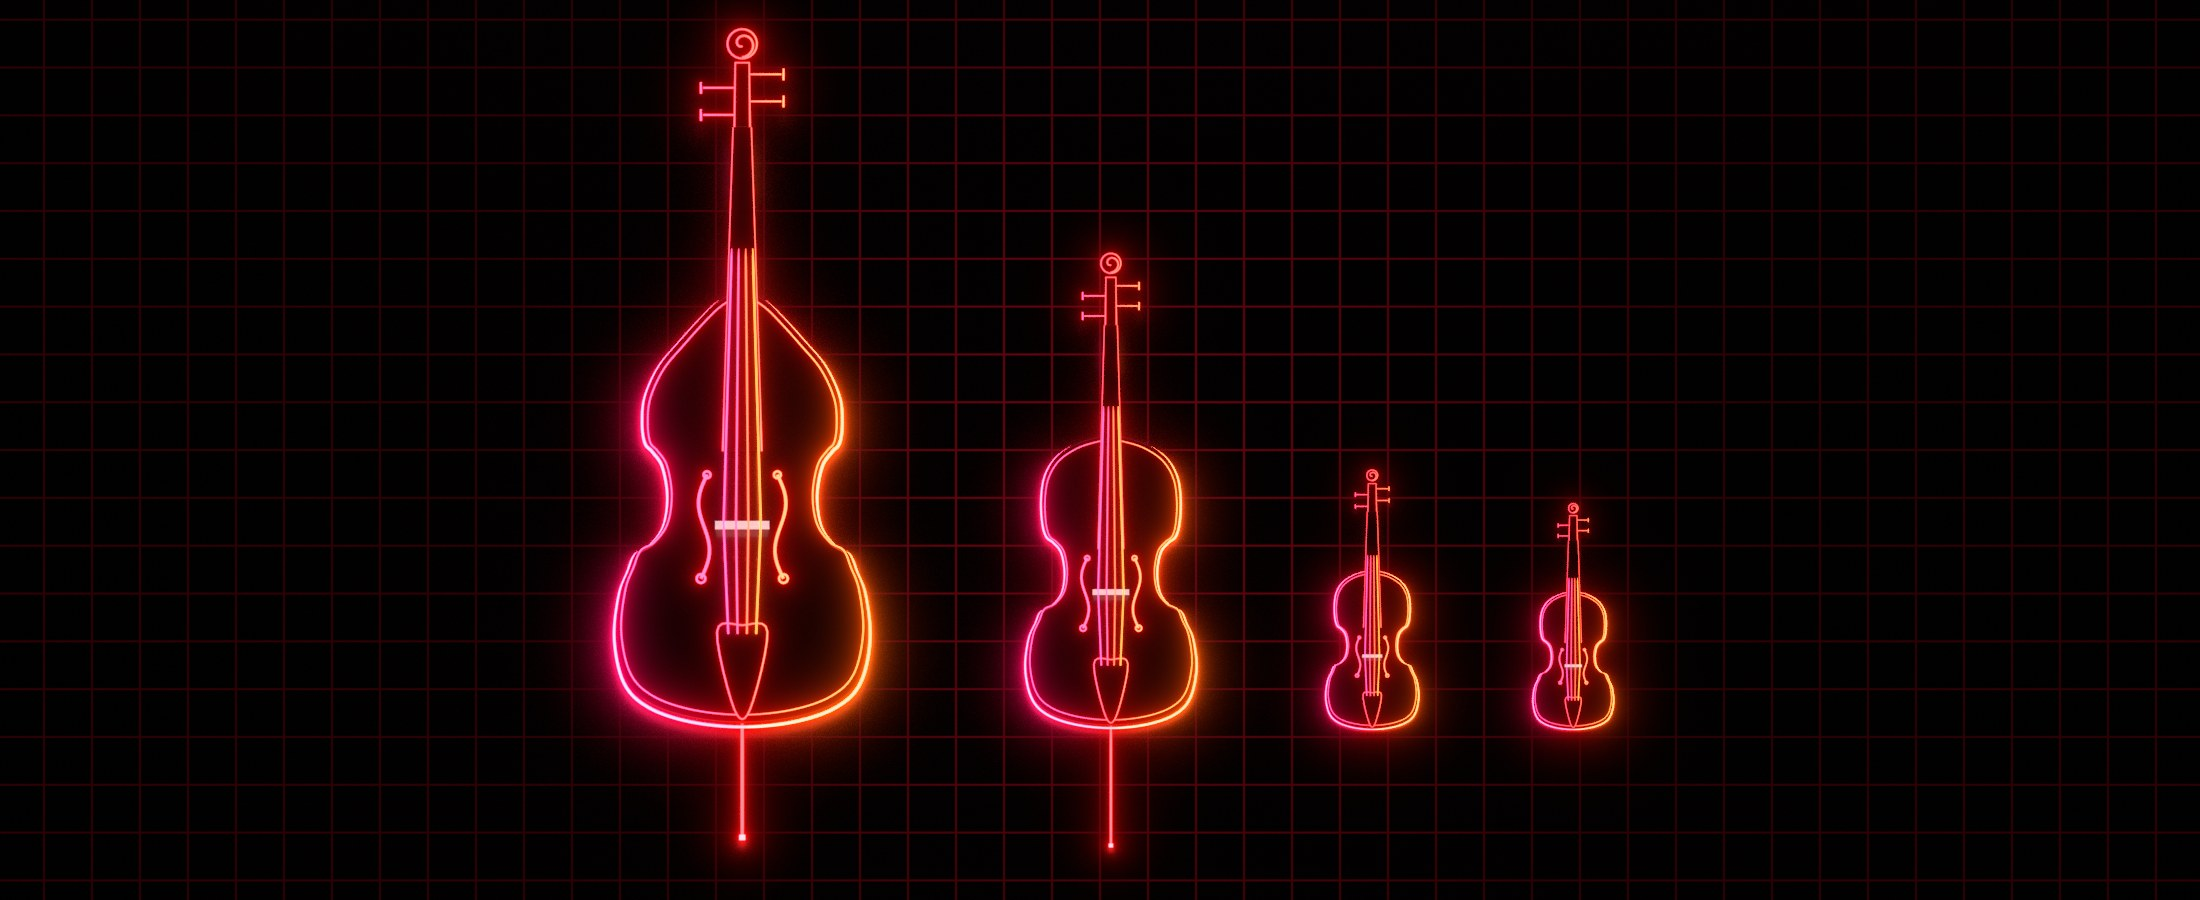
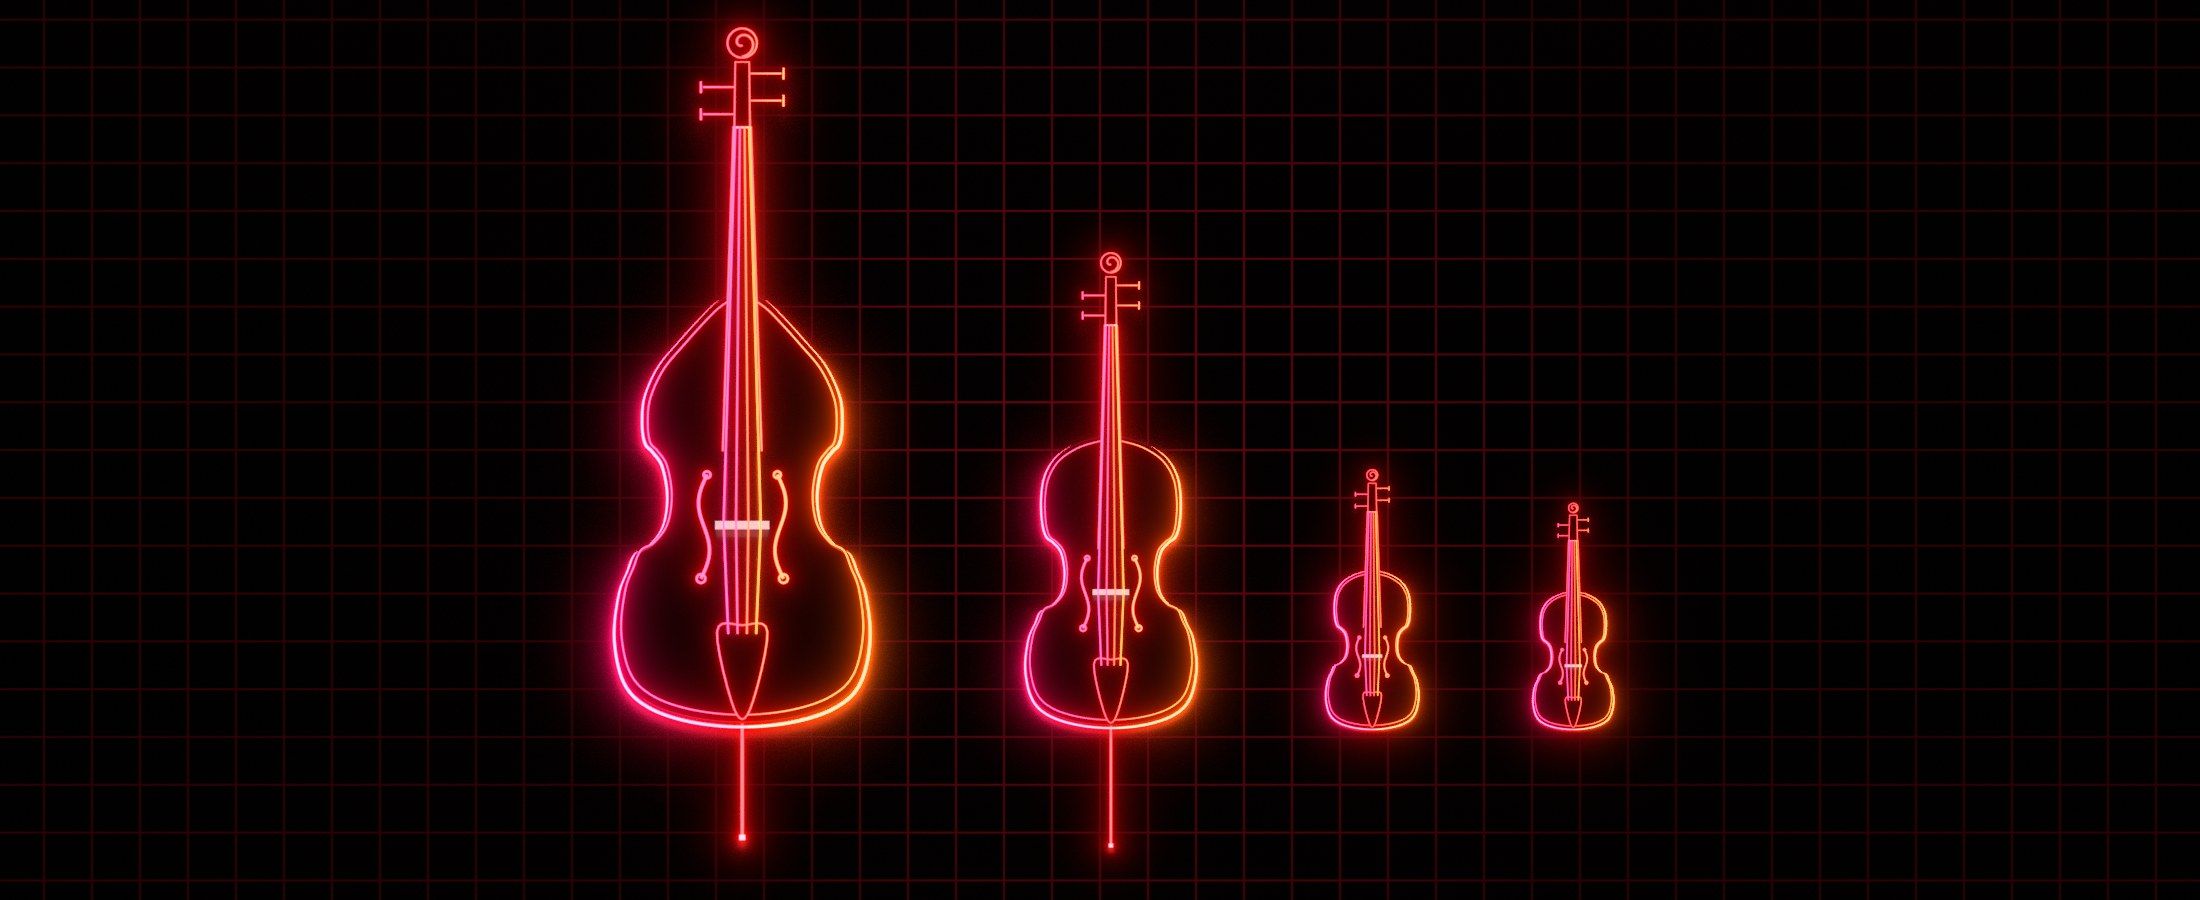
Release 0.5.1: the single instruments at one common scale, bigger, like PR7-I's guitar
The owner: "much closer to the scale that we used for the guitar in the
PR7-I ... We don't need to see the entire body or the entire headstock",
then, after a mock-up, "all four instruments to one common scale", and of
three common scales (bass fills, halfway, violin fills) the halfway one.

- strings3d.py: the single views at one scale, 0.654 m across the
  picture (the geometric middle of the violin's strings and the bass's
  filling it). Violin and viola whole, about as big as 0.5.0's violin;
  cello and bass much bigger, framed on their nut end (the nut 92%
  across), the bridge end off the left edge. ORCH_FRAME / ORCH_FIT /
  ORCH_SPAN choose other framings.
- OrchestraView: a stop past the left edge (cello / bass high notes)
  lights at the edge on its string (orchestra::alongString, tested).
- The strings no longer sink into the fingerboard near the nut (the nut
  now at the board's height); all six pictures rendered again.

Checked: 225 test cases (also under a 1 MB stack and through ctest),
pluginval strictness 10, screenshots of all four instruments and the
section on VSCO's real files.

Claude-Session: https://claude.ai/code/session_01DkHHwF9k9oj2mhycMYNF8F

diff --git a/resources/orchestra/strings3d.py b/resources/orchestra/strings3d.py
@@ -319,13 +319,28 @@ if VIEW.startswith("single:"):
     PX_PER_M = (WIDTH / 2) * 0.93 / length
     # lying across: its strings along X, the scroll right, the low string on top (+Y)
     start = -length / 2 + p["pin"]
-    # ORCH_FRAME=strings (the owner, after 0.5.0: "much closer to the scale that we used for the guitar in the PR7-I"):
-    # the strings from the bridge to the nut fill the picture (ORCH_SPAN of them across it), as PR7-I's guitar's
-    # neck does; the body and the scroll run off the edges. The view's middle is the strings' middle.
-    if os.environ.get("ORCH_FRAME") == "strings":
-        bridge, nut = 0.455 * p["L"], p["L"] + p["neck"]
-        PX_PER_M = (WIDTH / 2) / ((nut - bridge) * float(os.environ.get("ORCH_SPAN", "1.22")))
-        start = -(bridge + nut) / 2
+    # 0.5.1, ONE COMMON SCALE like PR7-I's guitar's (the owner: "much closer to the scale that we used for the guitar
+    # in the PR7-I ... We don't need to see the entire body", then "all four instruments to one common scale"): the
+    # largest scale at which every instrument's strings, bridge to nut, stay in the picture: the double bass's fill it
+    # (ORCH_SPAN, 1.05, of them across), and the others are drawn at that same scale, each centred on its strings
+    # (the cello's fill about three quarters, the violin's and viola's about a third). The body and scroll of the
+    # bigger ones run off the edges. ORCH_FRAME=strings: each fills the picture instead (the first mock-up);
+    # ORCH_FRAME=whole: 0.5.0's, each whole instrument fitted.
+    # The owner chose from three (0.5.1): the scale halfway (geometric middle) between the violin's strings filling the
+    # picture (x1.22) and the bass's (x1.05): 0.654 m across, the violin whole and about as big as 0.5.0's, the cello
+    # and bass big. A bigger instrument's strings run past the picture: it's framed on its nut end (the nut at 92%
+    # across, where low-position notes are played), the bridge off the left edge. ORCH_FIT / ORCH_SPAN: another scale
+    # (the instrument whose strings set it, and how many of them across).
+    frame = os.environ.get("ORCH_FRAME", "common")
+    if frame in ("common", "strings"):
+        def span(q): return q["L"] + q["neck"] - 0.455 * q["L"]   # bridge to nut
+        halfway = math.sqrt (span (FAMILY["violin"]) * 1.22 * span (FAMILY["bass"]) * 1.05)
+        fitted = FAMILY[os.environ.get("ORCH_FIT", "violin")] if frame == "common" else p
+        across = span (fitted) * float(os.environ.get("ORCH_SPAN", str (halfway / span (FAMILY["violin"])) if frame == "common" else "1.22"))   # metres
+        PX_PER_M = (WIDTH / 2) / across
+        start = -(0.455 * p["L"] + p["L"] + p["neck"]) / 2
+        if span (p) > across * 0.95:
+            start = 0.42 * across - (p["L"] + p["neck"])
     root, strings, _ = build(kind, (start, 0, 0), -math.pi / 2, kind in LIT)
     pieces = [(kind, root, strings)]
 else:

diff --git a/source/ui/OrchestraView.cpp b/source/ui/OrchestraView.cpp
@@ -50,6 +50,16 @@ namespace orchestra
         return {};
     }
 
+    float alongString (int semitones, float nutX, float bridgeX, float edge)
+    {
+        // A stop's place, nut (0) to bridge (1): 1 - 2^(-semitones / 12). 0.5.1: at the common scale the cello's and
+        // bass's bridge end is off the left edge; a note stopped past `edge` lights at it, on its string.
+        auto along = 1.0f - std::pow (2.0f, -(float) semitones / 12.0f);
+        if (nutX > edge && bridgeX < edge && std::abs (bridgeX - nutX) > 1.0f)
+            along = juce::jmin (along, (nutX - edge) / (nutX - bridgeX));
+        return along;
+    }
+
     std::vector<Stop> stopsFor (Kind k, std::vector<int> notes)
     {
         std::vector<Stop> stops;
@@ -335,8 +345,7 @@ void OrchestraView::paintStops (juce::Graphics& g, const Strings& strings, const
             continue;
         const auto s = (size_t) stop.string;
         const auto nut = strings.nut[s].transformedBy (toView), bridge = strings.bridge[s].transformedBy (toView);
-        const auto along = 1.0f - std::pow (2.0f, -(float) stop.semitones / 12.0f);
-        const auto at = nut + (bridge - nut) * along;
+        const auto at = nut + (bridge - nut) * orchestra::alongString (stop.semitones, nut.x, bridge.x, 14.0f);
         const auto colour = stringColours[s];
         const auto scale = std::sqrt (std::abs (toView.getDeterminant()));
         const juce::Line<float> sounding (at, bridge);

diff --git a/tests/UiTests.cpp b/tests/UiTests.cpp
@@ -665,3 +665,15 @@ TEST_CASE ("THE ORCHESTRA VIEW 0.5.0: every picture's colours sit inside 322-38 
         CHECK (outside == 0);
     }
 }
+
+TEST_CASE ("THE ORCHESTRA VIEW 0.5.1: a stop past the picture's left edge (a cello's or bass's high note) lights at the edge", "[ui][orchestra]")
+{
+    // An octave up is halfway along; the open string at the nut.
+    CHECK (orchestra::alongString (0, 1000.0f, 200.0f, 14.0f) == 0.0f);
+    CHECK (std::abs (orchestra::alongString (12, 1000.0f, 200.0f, 14.0f) - 0.5f) < 1.0e-5f);
+    // The bridge end off the left edge (the nut at 940, the bridge at -500): two octaves up would be at 940 - 0.75 x
+    // 1440 = -140, off the picture: it's drawn at 14 instead. An octave up (220) is where it's stopped.
+    const auto at = [] (int semitones) { return 940.0f + (-500.0f - 940.0f) * orchestra::alongString (semitones, 940.0f, -500.0f, 14.0f); };
+    CHECK (std::abs (at (24) - 14.0f) < 1.0e-3f);
+    CHECK (std::abs (at (12) - 220.0f) < 1.0e-3f);
+}

diff --git a/source/ui/OrchestraView.h b/source/ui/OrchestraView.h
@@ -27,6 +27,9 @@ namespace orchestra
     // Each note's string and how many semitones over it (-1: no string), for these notes (any order).
     struct Stop { int note = 0, string = -1, semitones = 0; };
     std::vector<Stop> stopsFor (Kind, std::vector<int> notes);
+    // How far along its string (nut 0, bridge 1) a stop is drawn: where it's stopped, but never past `edge` (px) when
+    // the bridge end is off the picture's left edge (0.5.1).
+    float alongString (int semitones, float nutX, float bridgeX, float edge);
 }
 
 class OrchestraView final : public juce::Component, private juce::Timer

diff --git a/tests/ProcessorTests.cpp b/tests/ProcessorTests.cpp
@@ -83,7 +83,7 @@ TEST_CASE ("PR7-O is an instrument: no audio in, MIDI in, mono or stereo out", "
     CHECK (processor.getMainBusNumOutputChannels() == 2);
     CHECK (processor.getBus (false, 0)->getName() == "Main");
     CHECK (juce::String (JucePlugin_Name) == "Paragon PR7-O");
-    CHECK (juce::String (JucePlugin_VersionString) == "0.5.0");
+    CHECK (juce::String (JucePlugin_VersionString) == "0.5.1");
 
     juce::AudioProcessor::BusesLayout layout;
     layout.outputBuses.add (juce::AudioChannelSet::stereo());

diff --git a/CHANGELOG.md b/CHANGELOG.md
@@ -1,5 +1,24 @@
 # Changelog
 
+## 0.5.1
+
+**The single instruments bigger, at one common scale** (you: "much closer to the scale that we used for the guitar in
+the PR7-I ... We don't need to see the entire body or the entire headstock", then "all four instruments to one common
+scale", and of three common scales you chose the halfway one). A violin, viola, cello or double bass now lies across
+the picture panel at the same scale as the others, so their sizes compare as in life:
+- the **violin and viola** whole, about as big as 0.5.0's violin (0.5.0 fitted each instrument to the panel, so a
+  violin looked as big as a double bass);
+- the **cello and double bass** much bigger, framed on their nut end where low-position notes are played: the scroll
+  at the right, the upper body showing, the bridge end running off the left edge. A note stopped beyond the edge (their
+  highest, above about 15-18 semitones up a string) lights at the edge, on its string, so whatever sounds shows.
+The scale sits halfway between the violin's strings filling the panel and the bass's (0.654 m across the panel).
+
+**The strings run above the fingerboard to the nut.** Zoomed in, a slip in our model showed: the strings sank into
+the fingerboard near the nut and were hidden there (in every picture, the section's too). Fixed and rendered again.
+(The lit notes are drawn by the plugin, so they were always right.)
+
+Not checked: how it looks on your screen at your window size, and listening.
+
 ## 0.5.0
 
 **THE INSTRUMENT page in the family's "Tron" look, with PR7-I's rack** (you chose both mock-ups, and the rack system

diff --git a/CLAUDE.md b/CLAUDE.md
@@ -193,6 +193,15 @@ and AUTO SUSTAIN (`Sfz.cpp`), fitted on all 1914 distinct recordings (outside GM
   `oversamplingLatency()` measures each factor once (after `initProcessing`, which sets the whole-sample latency).
 - Blender 4.0 isn't on a fresh machine: `apt-get install -y blender`. Each picture ~2.5 min on 4 cores at 64 samples.
 
+## 0.5.1: the single instruments at one common scale (the owner: "much closer to the scale that we used for the guitar in the PR7-I ... We don't need to see the entire body or the entire headstock"; after a mock-up: "all four instruments to one common scale"; of three, "C: halfway")
+
+- `strings3d.py` single views: `ORCH_FRAME` common (default) / strings (each fills: the first mock-up) / whole
+  (0.5.0's). Common: 0.654 m across the picture, the geometric middle of the violin's strings x1.22 and the bass's
+  x1.05 (`ORCH_FIT`, `ORCH_SPAN` to choose another); an instrument whose strings are longer than 95% of it is framed
+  on its nut end (the nut at 92% across), others centred on their strings. The nut now as high as the fingerboard's
+  body end (`zFbNut = zFbEnd`: the strings had sunk into the board near the nut, hidden). All six pictures rendered again.
+- `OrchestraView::paintStops`: a stop past the picture's left edge (cello / bass upper notes) lights 14 px in from it.
+
 ## The plan (`PR7-O PLAN.md`), next
 
 Still from stage 2: release samples (`trigger=release`, `rt_decay`) and the files' own crossfades (`xfin_*` /

diff --git a/README.md b/README.md
@@ -40,8 +40,8 @@ PR7-O is built in stages, each one released (the plan: `PR7-O PLAN.md`):
   POLYPHONY, DYNAMICS, AUTO SUSTAIN) and **ROUTING** (SEND DELAY, SEND REVERB, INSERT BUS). Or drop files on the page.
   The left panel: the articulations (click to switch), a section's **SPLITS** (- / + move a split), what the instrument
   holds (regions, keys, velocity layers, round robins, memory, anything PR7-O doesn't play yet, missing files). The big
-  panel: **the instrument itself** in the family's neon look (violin, viola, cello, double bass: each note lit where
-  it's played; a section's instruments glowing as they play), or its **region map** (keys across, velocity up: where
+  panel: **the instrument itself** in the family's neon look (violin, viola, cello, double bass, at one common scale
+  like PR7-I's guitar: each note lit where it's played; a section's instruments glowing as they play), or its **region map** (keys across, velocity up: where
   each recording plays): INSTRUMENT / REGIONS switch; instruments not modelled yet show the region map.
 - **The keyboard** under the pages: 88 keys, the instrument's tinted; click to play. **HIDE KEYBOARD** (at the foot of
   OUTPUT) makes the window shorter.
